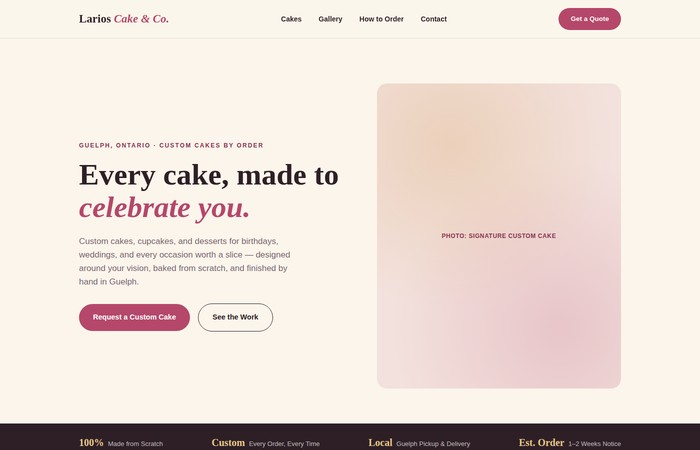
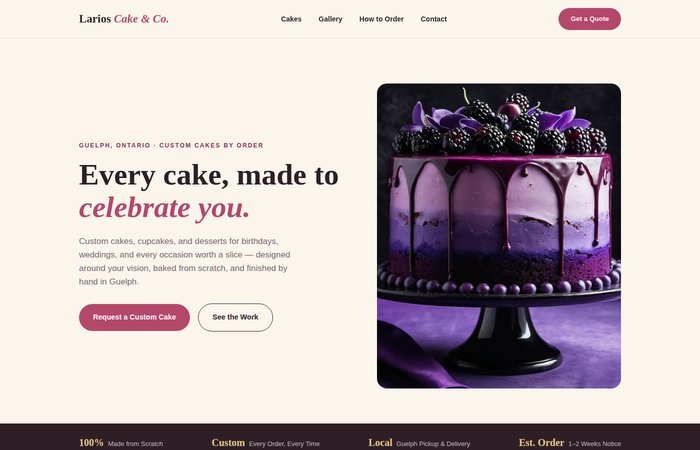
Replace gradient photo-slot placeholders with real Pixabay stock photography
Michael downloaded 9 licensed Pixabay stock photos directly (source:
his own free-license downloads, not automated hotlinking -- direct
CDN hotlinking to Pixabay/Pexels was confirmed blocked by bot
protection on 6 tested URL patterns across both providers). Selected 6
of the 9 for the public placeholder mockup's existing slots:

- Hero: purple ombre drip cake with blackberries (nusrat-kaniz-fahima)
- Gallery: tiered fondant cake with teddy bear figures (peggy_marco),
  raspberry layer cake slice (ipicture), My Little Pony custom
  cupcakes (vic_armas), assorted decorated sugar cookies (ritae)
- About: winter-themed cake with bear figurines (blandinejoannic)

Excluded 3 of the 9 uploads: a donut (off-brand for a cake-specific
business), a green M&M-topped cupcake (busier/less polished than the
other options), and one image whose Pixabay filename flagged it as
AI-generated (kept the selection to actual photography for full
honesty in the stock-photo disclosure).

Resized and compressed all 6 from their 1920px download originals to
web-appropriate sizes (800-1100px longest edge, JPEG q80-85) -- total
image weight dropped from 2.6MB to 492KB. Saved to
assets/mockups/larios-cake-co-stock/. Swapped each hero/gallery/about
photo-slot div's text-label placeholder for a real <img> with
object-fit:cover, confirmed the existing position:relative +
overflow:hidden parent containers handle the crop correctly with no
CSS changes needed.
[…]

Changed region(s): [[0.54, 0.1867, 0.9, 0.8711]]

diff --git a/mockups/larios-cake-co.html b/mockups/larios-cake-co.html
@@ -219,7 +219,7 @@
       </div>
     </div>
     <div class="hero-photo-slot">
-      <div class="slot-label">Photo: Signature Custom Cake</div>
+      <img src="/assets/mockups/larios-cake-co-stock/hero-purple-drip-cake.jpg" alt="Custom drip cake with fresh berries" style="width:100%;height:100%;object-fit:cover;position:absolute;inset:0;">
     </div>
   </div>
 </section>
@@ -272,19 +272,19 @@
       <h2>A look at what leaves the kitchen.</h2>
     </div>
     <div class="gallery-grid">
-      <div class="gallery-slot"><div class="slot-label">Photo: Birthday Cake</div></div>
-      <div class="gallery-slot"><div class="slot-label">Photo: Wedding Tier</div></div>
-      <div class="gallery-slot"><div class="slot-label">Photo: Cupcake Tower</div></div>
-      <div class="gallery-slot"><div class="slot-label">Photo: Custom Fondant Design</div></div>
+      <div class="gallery-slot"><img src="/assets/mockups/larios-cake-co-stock/gallery-tiered-teddy-cake.jpg" alt="Custom tiered celebration cake" style="width:100%;height:100%;object-fit:cover;position:absolute;inset:0;border-radius:14px;"></div>
+      <div class="gallery-slot"><img src="/assets/mockups/larios-cake-co-stock/gallery-raspberry-layer-cake.jpg" alt="Layered cake slice with fresh raspberries" style="width:100%;height:100%;object-fit:cover;position:absolute;inset:0;border-radius:14px;"></div>
+      <div class="gallery-slot"><img src="/assets/mockups/larios-cake-co-stock/gallery-pony-cupcakes.jpg" alt="Custom themed cupcakes" style="width:100%;height:100%;object-fit:cover;position:absolute;inset:0;border-radius:14px;"></div>
+      <div class="gallery-slot"><img src="/assets/mockups/larios-cake-co-stock/gallery-sugar-cookies.jpg" alt="Assorted custom decorated sugar cookies" style="width:100%;height:100%;object-fit:cover;position:absolute;inset:0;border-radius:14px;"></div>
     </div>
-    <p class="gallery-note">Photo placeholders — this space is built to showcase real client cake photography once connected.</p>
+    <p class="gallery-note">Stock photography used for demonstration &mdash; this gallery is built to swap in real order photography once connected.</p>
   </div>
 </section>
 
 <section class="about">
   <div class="wrap">
     <div class="about-photo-slot">
-      <div class="slot-label">Photo: The Baker at Work</div>
+      <img src="/assets/mockups/larios-cake-co-stock/about-winter-bear-cake.jpg" alt="Finished custom cake with hand-detailed decoration" style="width:100%;height:100%;object-fit:cover;position:absolute;inset:0;">
     </div>
     <div>
       <div class="eyebrow">Why Larios</div>
@@ -352,7 +352,7 @@
 <footer>
   <div class="wrap">
     <p>&copy; 2026 Larios Cake &amp; Co., Guelph. Site by The Lazy Creator Co.</p>
-    <p>Mockup for portfolio purposes — photo slots to be replaced with the baker's own photography.</p>
+    <p>Mockup for portfolio purposes — stock photography shown for demonstration, not the baker's own work.</p>
   </div>
 </footer>
 

diff --git a/case-study-larios-cake-co.html b/case-study-larios-cake-co.html
@@ -69,8 +69,8 @@
     <p>This is a concept mockup, not a live client site, so there are no real order numbers to
     report. What it demonstrates: a layout that fits a made-to-order business model instead of
     forcing an e-commerce template onto it, an ordering process that sets expectations before
-    anyone reaches out, and a gallery section built to plug in real cake photography the moment
-    it's available.</p>
+    anyone reaches out, and a gallery section (shown here with stock photography) built to swap
+    in real cake photography the moment it's available.</p>
 
     <div class="cs-cta">
       <p>Want something like this for your own business?</p>
